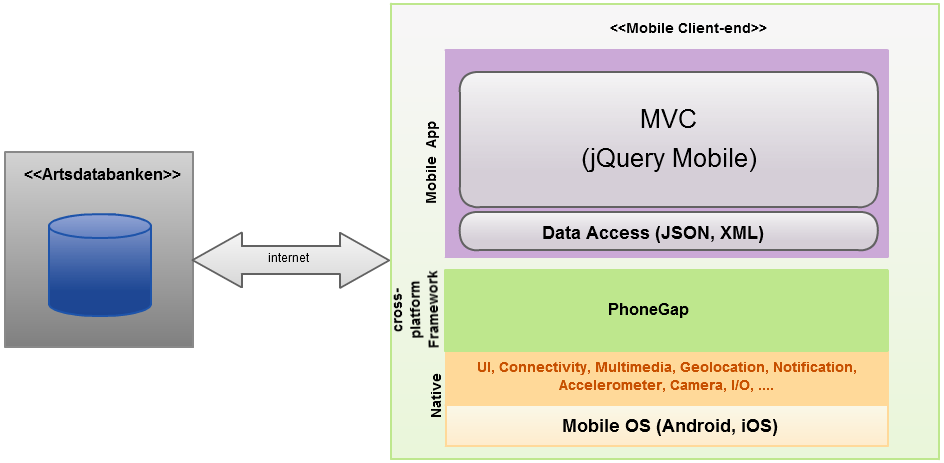
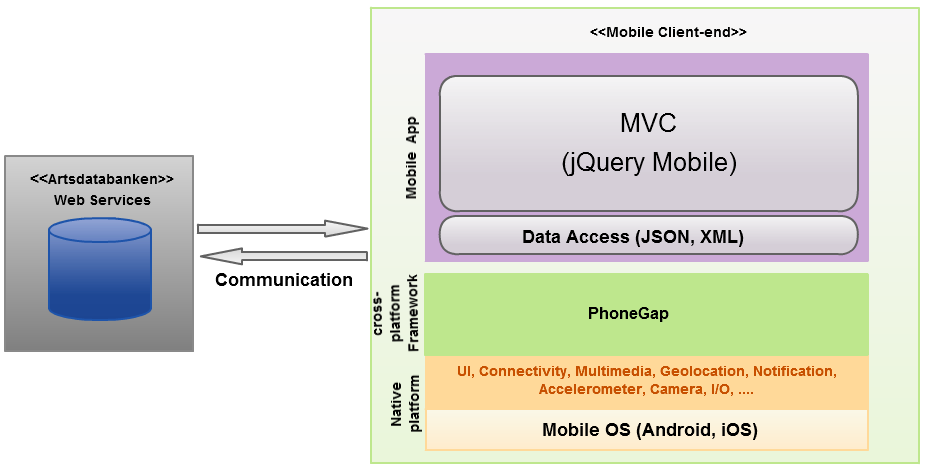
Updated architecture based on advise from advisor

diff --git a/doc/project_report/architecture/index.tex b/doc/project_report/architecture/index.tex
@@ -1,7 +1,7 @@
 \section{System architecture}
 \begin{figure}[htb]
 	\centering
-	\includegraphics[width=1.0\textwidth]{architecture/architecture3.png}
+	\includegraphics[width=1.0\textwidth]{architecture/architecture.png}
 	\caption{Overall system architecture}
 	\label{fig:architecture}
 \end{figure}
@@ -10,9 +10,13 @@ We use a layered architecture, platform-specific issues are avoided using
 PhoneGap as a platform-independent layer above the operating system. Following
 is a detailed description of each layer, starting at the bottom.
 
-The app will be shipped with auto-complete data downloaded from Artsdatabanken's
-web services to allow for convenient typing in offline mode. It will also
-communicate directly with Arts
+The app will be shipped with auto-complete data (primarily species names)
+downloaded from Artsdatabanken's web services to allow for convenient typing in
+offline mode. It will also be prepared to communicate directly with
+Artsdatabanken's web services with the purpose of uploading observations and
+downloading species information (for the prototype we will use a communication
+format specified by Artsdatabanken, the actual communication will not be
+prioritized as the API for uploading observations is not yet available).
 
 \subsection{Layer 1 - Native platform}
 
